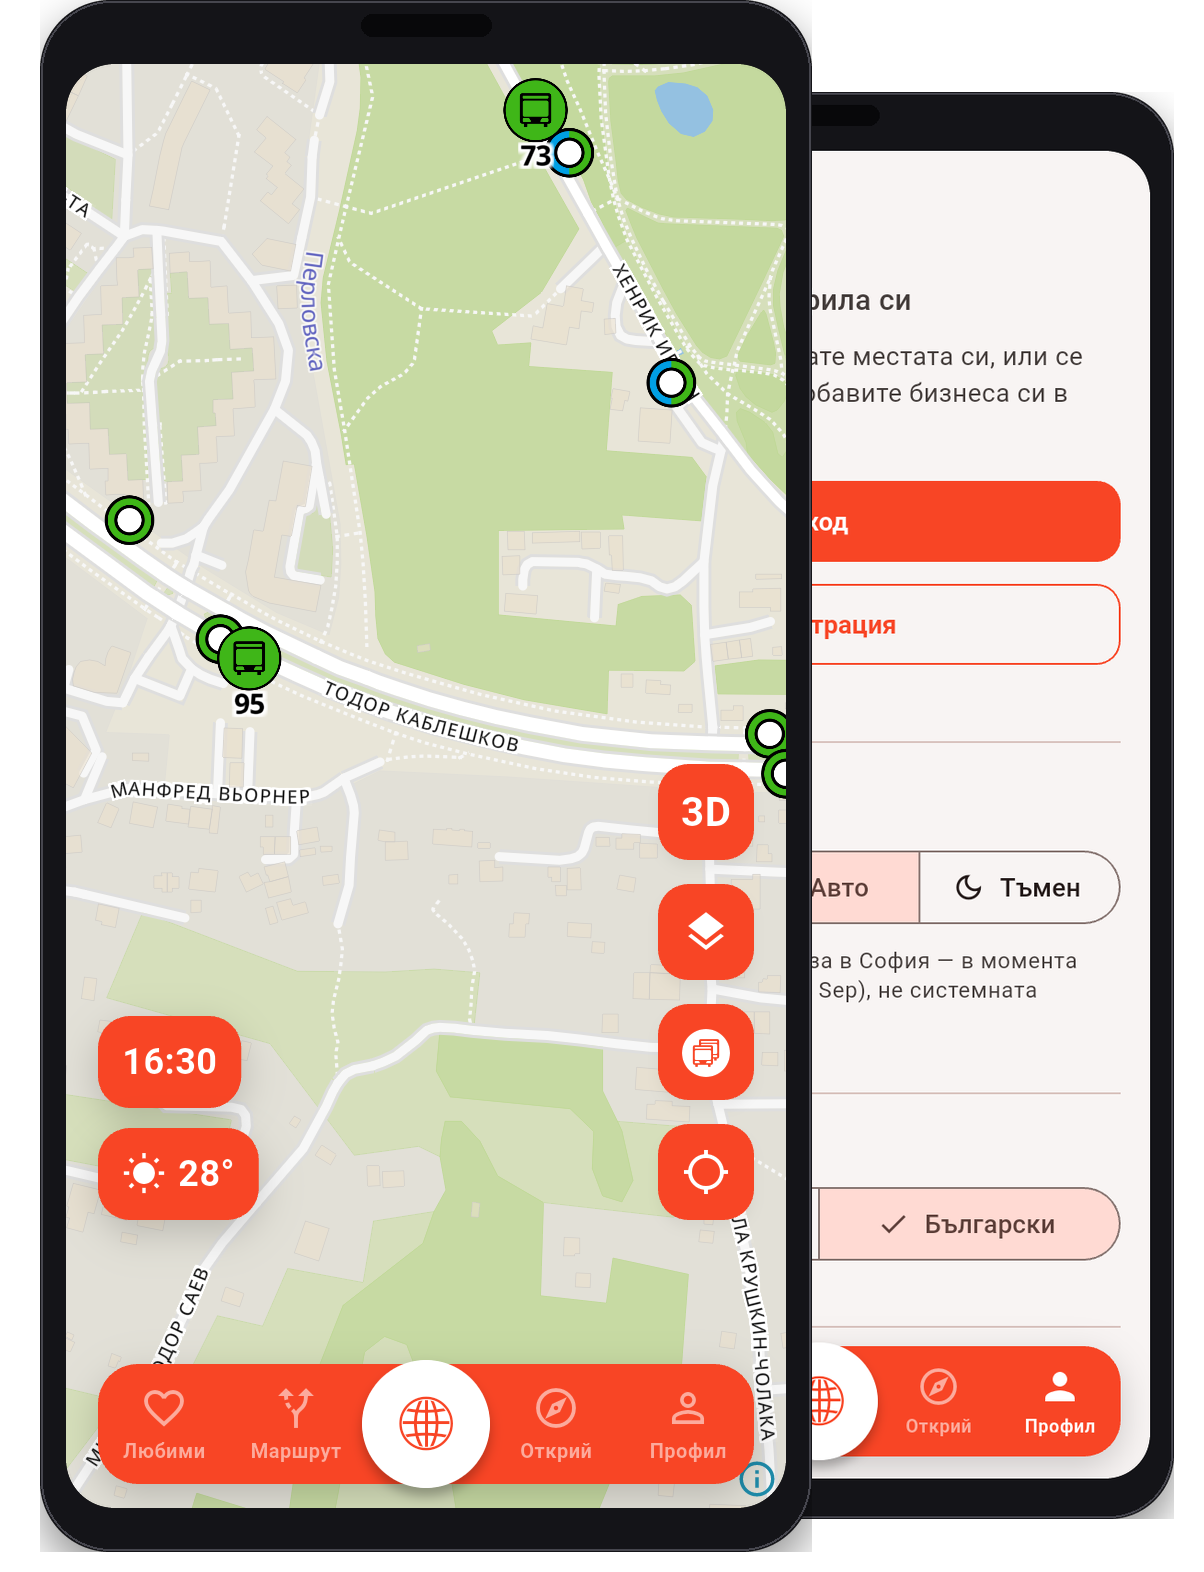
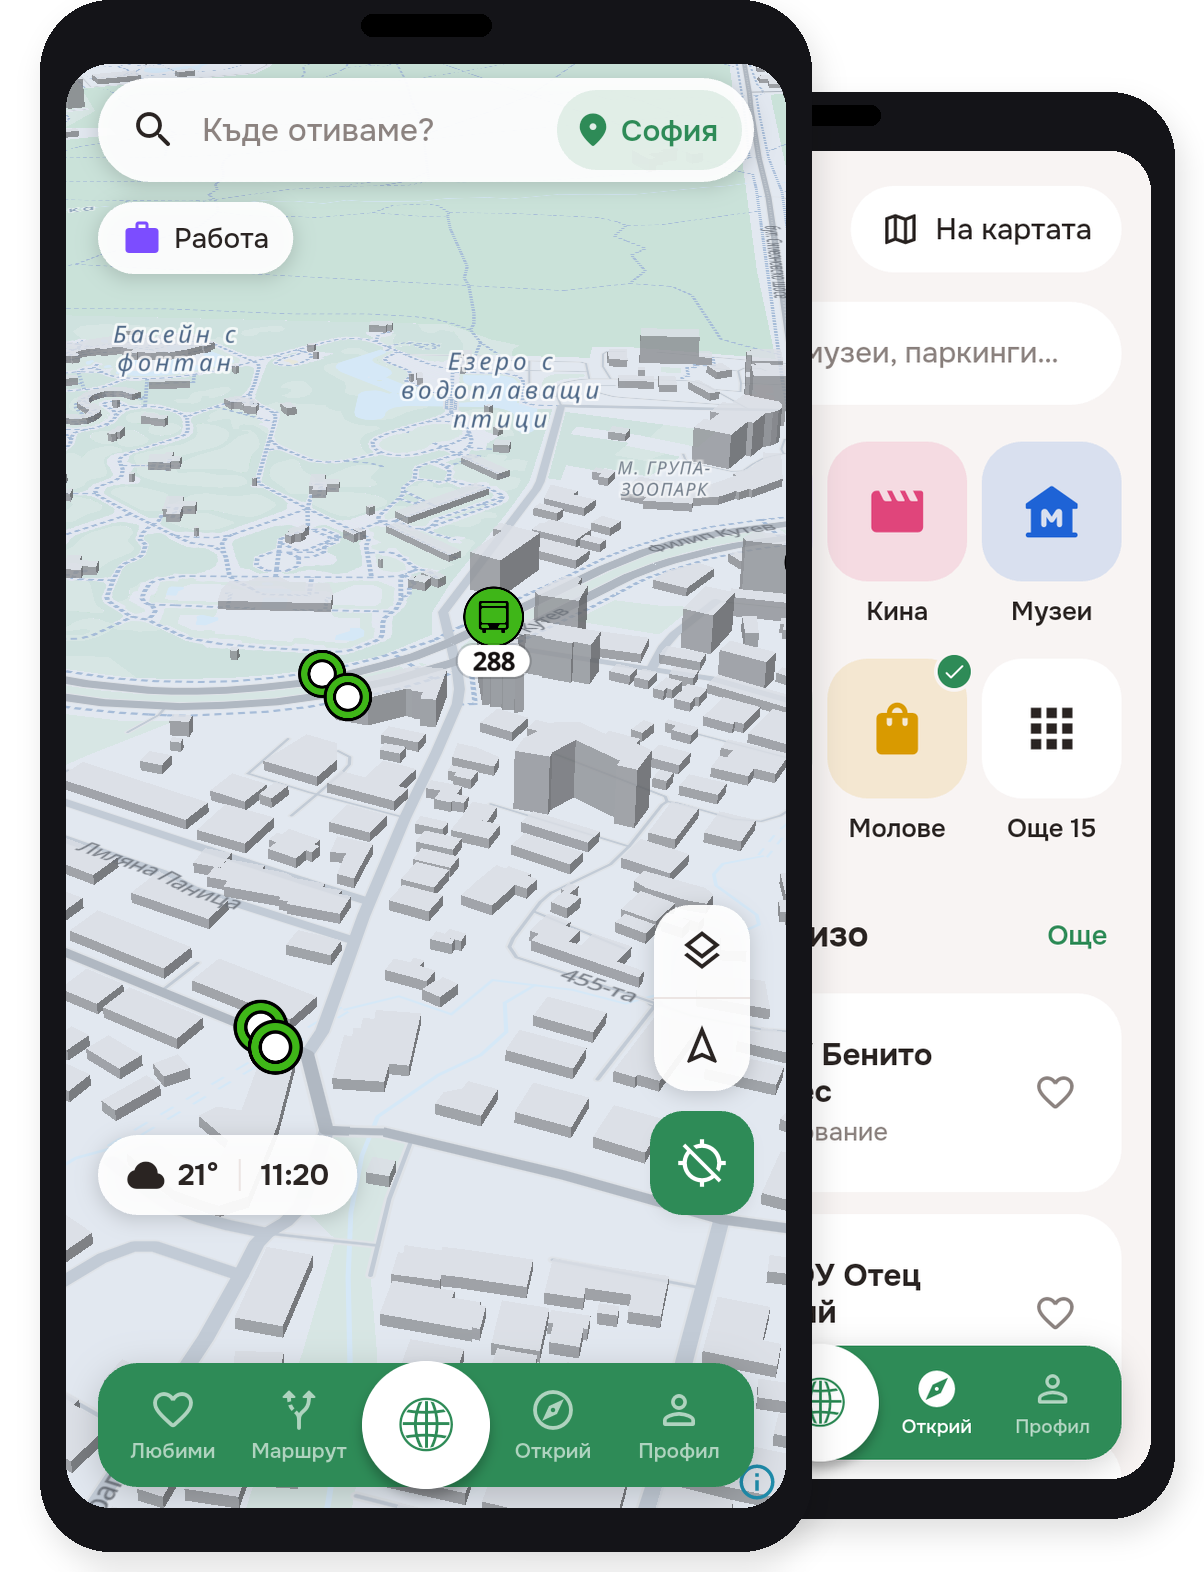
5.0.5

diff --git a/app/Controllers/StopShareController.php b/app/Controllers/StopShareController.php
@@ -27,7 +27,7 @@ namespace Sofiago\Controllers;
 final class StopShareController
 {
     /** City (the app's `City.id`) => its feed id in OTP. */
-    private const FEEDS = ['sofia' => '1', 'varna' => '2'];
+    private const FEEDS = ['sofia' => '1', 'varna' => '2', 'blagoevgrad' => '9'];
 
     private const CACHE_TTL = 86400;
 
